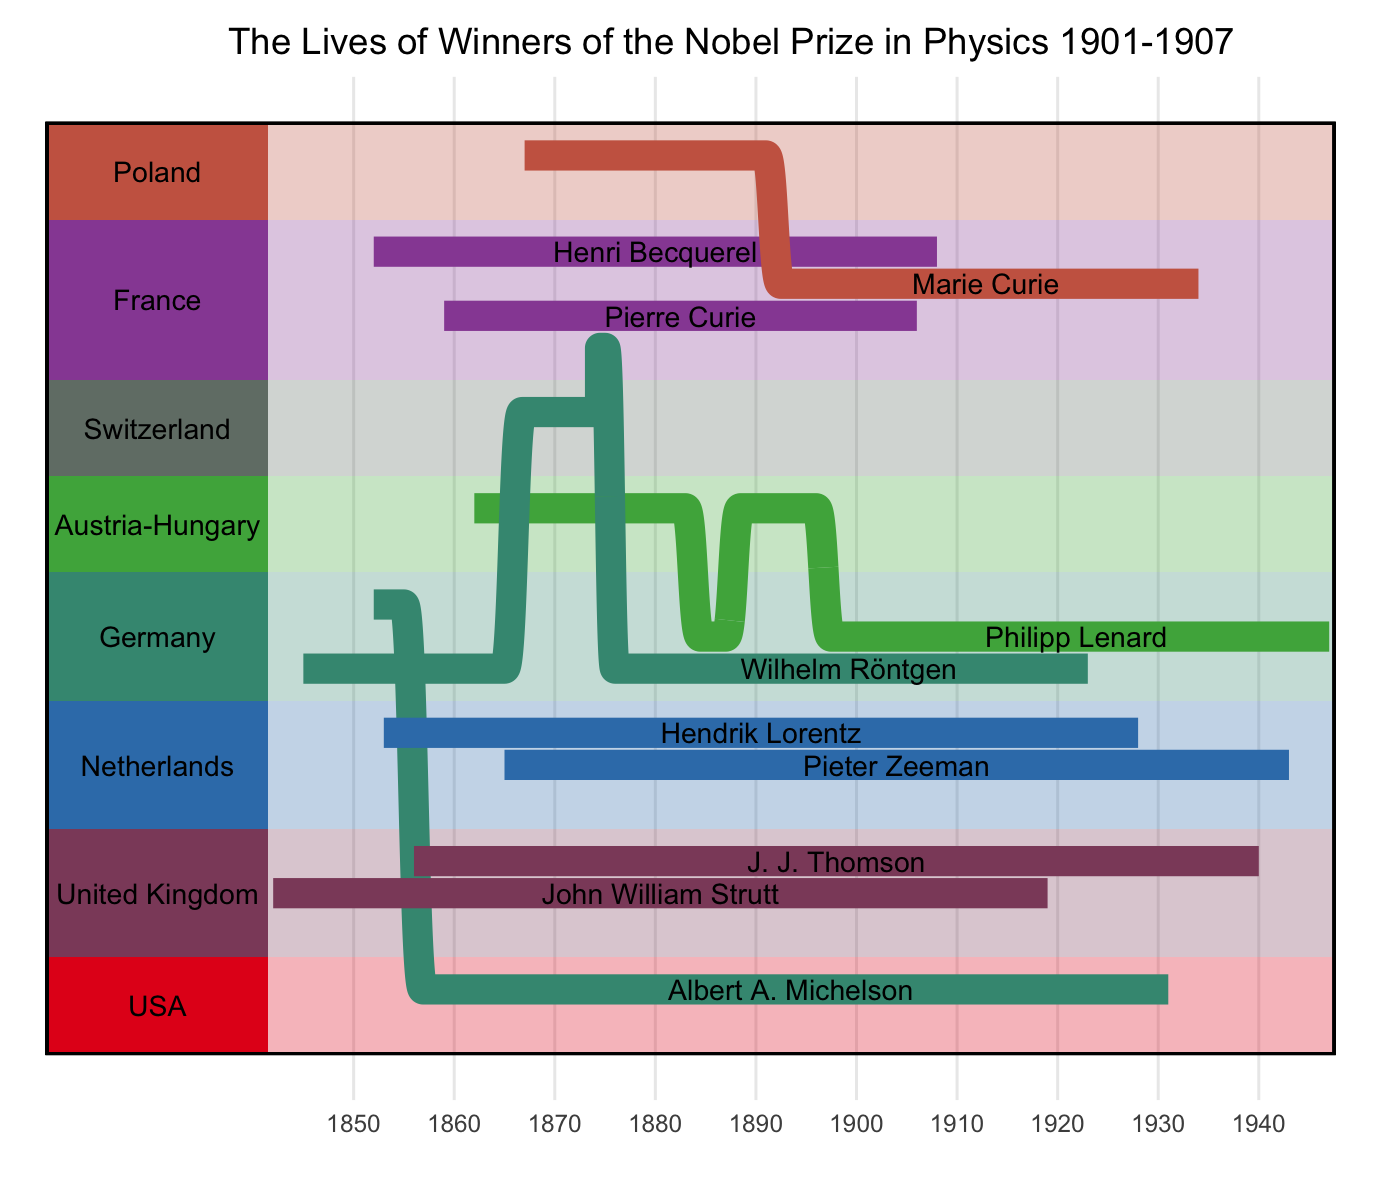
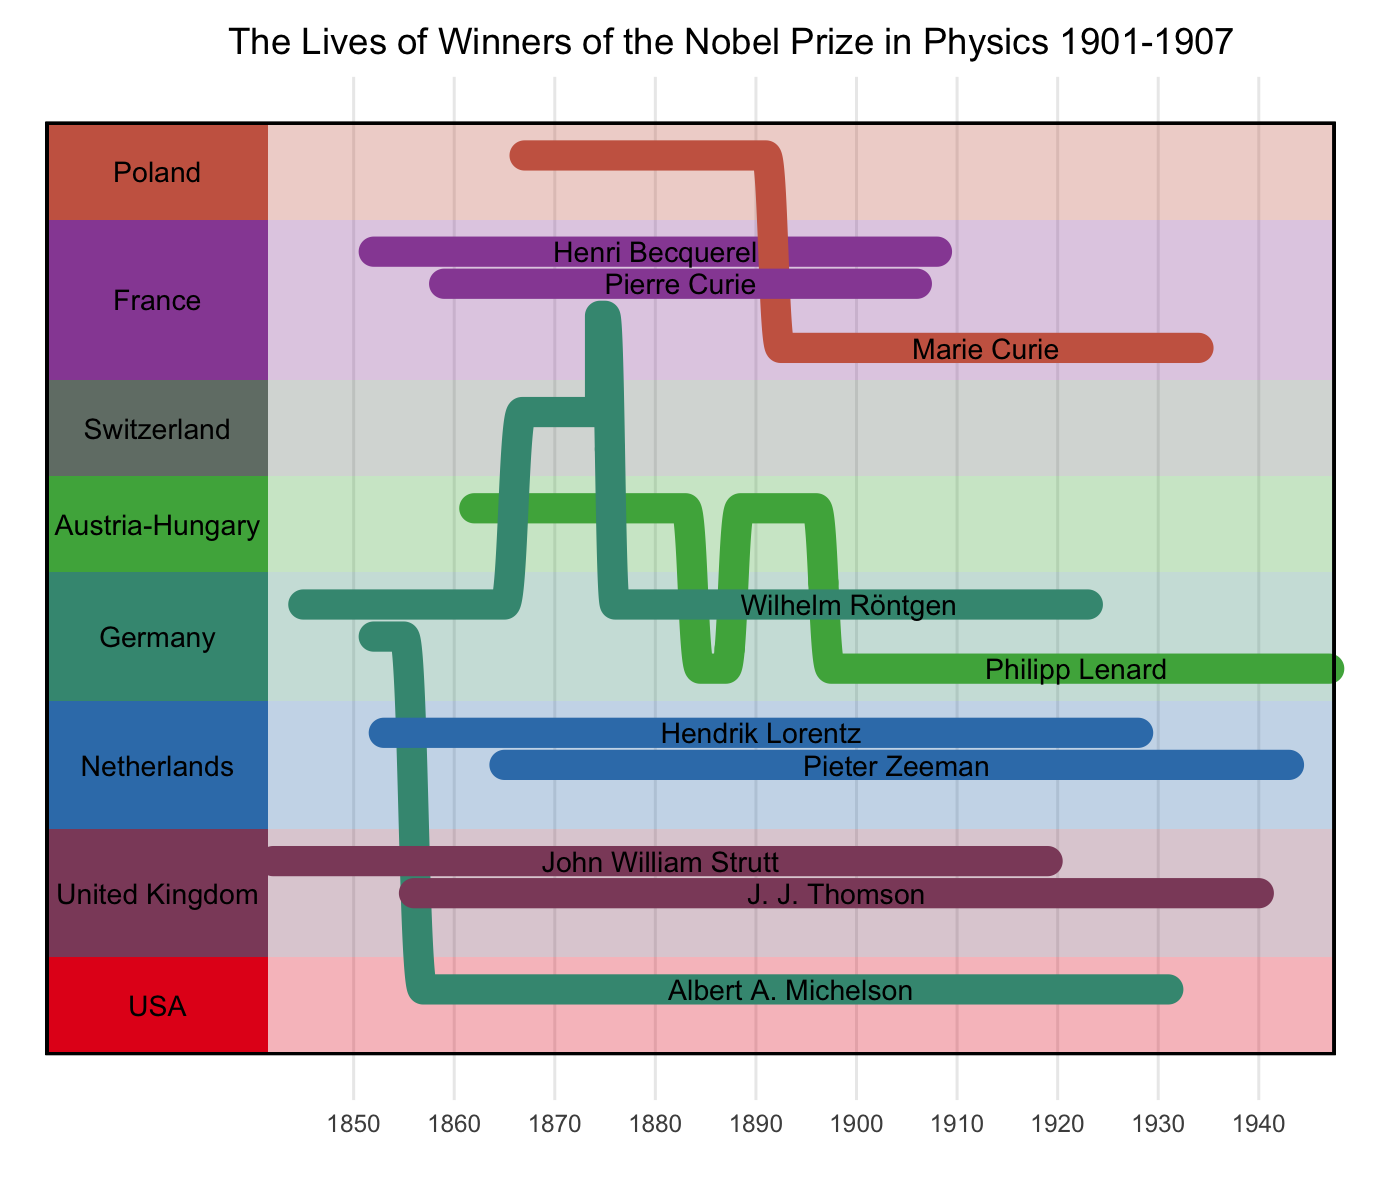
Implement vertical dodging

diff --git a/README.md b/README.md
@@ -36,7 +36,7 @@ nobel_physicists %>%
   filter(name %in% head(unique(name), 10)) %>%
   mutate(country = forcats::fct_drop(country)) %>%
   wormsplot('year', 'country', 'name', worm.color = 'initial',
-            worm.args = list(linewidth = 5.1), region.label.width = 22, label.args = list(size = 3.6)) +
+            worm.args = list(linewidth = 5.1, lineend = 'round'), region.label.width = 22, label.args = list(size = 3.6)) +
   labs(title = "The Lives of Winners of the Nobel Prize in Physics 1901-1907")
 ```
 
